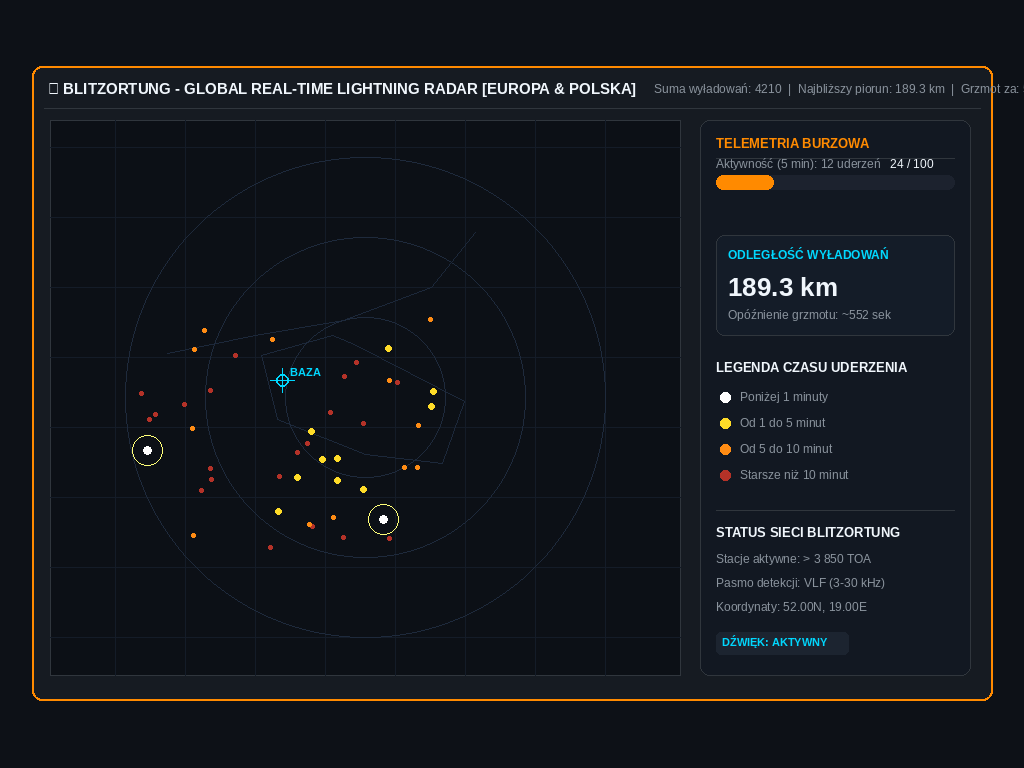
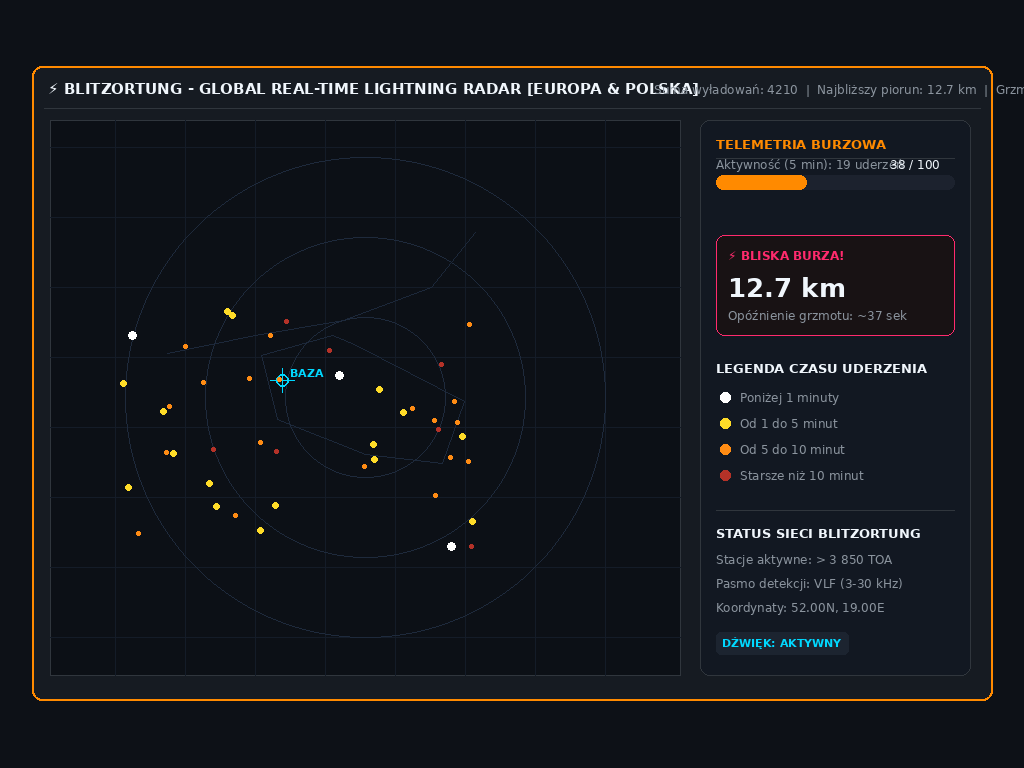
fix(wasm): enrich Canvas mock widget methods and fix mod_blitz & mod_space execution

diff --git a/wasm.html b/wasm.html
@@ -715,32 +715,115 @@ class Canvas:
         self.height = height
         self.image = Image.new("RGBA", (width, height), (10, 15, 24, 255))
         self.draw = ImageDraw.Draw(self.image)
+
     def clear(self, bg_color=(10, 15, 24, 255)):
         self.draw.rectangle([(0, 0), (self.width, self.height)], fill=bg_color)
+
     def draw_card(self, x, y, w, h, title="", subtitle="", border_color=(0, 200, 255), fill_color=(16, 24, 36), radius=8):
         self.draw.rounded_rectangle([(x, y), (x + w, y + h)], radius=radius, fill=fill_color, outline=border_color, width=2)
         if title:
             self.draw.text((x + 14, y + 12), title, fill=(240, 245, 255), font=get_font(15, bold=True))
         if subtitle:
             self.draw.text((x + 14, y + 36), subtitle, fill=(130, 160, 190), font=get_font(12))
+
     def draw_badge(self, x, y, text, bg_color=(30, 45, 65), text_color=(240, 245, 255)):
         bw = len(text) * 8 + 14
         self.draw.rounded_rectangle([(x, y), (x + bw, y + 24)], radius=4, fill=bg_color, outline=(0, 200, 255))
         self.draw.text((x + 6, y + 4), text, fill=text_color, font=get_font(11, bold=True))
-    def draw_gauge(self, x, y, w, h, val, max_val, label="", unit=""):
-        self.draw_card(x, y, w, h, title=label, subtitle=f"{val:.1f} {unit}")
-    def draw_radar(self, cx, cy, radius, sweep_angle, blips):
-        self.draw.ellipse([(cx-radius, cy-radius), (cx+radius, cy+radius)], outline=(0, 255, 180), width=2)
-    def draw_bar_chart(self, x, y, w, h, labels, values, max_v=None, title="", color=None):
-        self.draw_card(x, y, w, h, title=title)
-    def draw_spectrum(self, x, y, w, h, values, peaks=None, title="", col_start=None, col_end=None):
-        self.draw_card(x, y, w, h, title=title)
-    def draw_oscilloscope(self, x, y, w, h, points, color=None):
-        self.draw_card(x, y, w, h, title="OSCILLOSCOPE")
-    def draw_vu_meter(self, x, y, w, h, left, right):
-        self.draw_card(x, y, w, h, title="VU METER")
-    def draw_header(self, active_idx, modules, sys_info): pass
-    def draw_footer(self, hints): pass
+
+    def draw_gauge(self, x, y, w, h, value=0.0, max_val=100.0, label="", color=None, **kwargs):
+        val = kwargs.get('val', value)
+        max_v = kwargs.get('max_val', max_val)
+        lbl = kwargs.get('label', label)
+        col = kwargs.get('color', color) or (0, 240, 255)
+        ratio = max(0.0, min(1.0, float(val) / max(float(max_v), 0.001)))
+        self.draw.rounded_rectangle([(x, y), (x + w, y + h)], radius=max(2, h // 2), fill=(28, 34, 46))
+        fill_w = int(w * ratio)
+        if fill_w > 0:
+            self.draw.rounded_rectangle([(x, y), (x + max(fill_w, h // 2), y + h)], radius=max(2, h // 2), fill=col)
+        if lbl:
+            self.draw.text((x, y - 18), str(lbl), fill=(160, 180, 210), font=get_font(11))
+            val_text = f"{int(val)} / {int(max_v)}"
+            self.draw.text((x + w - len(val_text) * 8, y - 18), val_text, fill=(240, 245, 255), font=get_font(11))
+
+    def draw_radar(self, cx, cy, radius, sweep_angle, blips, **kwargs):
+        self.draw.ellipse([(cx - radius, cy - radius), (cx + radius, cy + radius)], outline=(0, 216, 255), width=2)
+        for r_pct in [0.25, 0.50, 0.75]:
+            cr = int(radius * r_pct)
+            self.draw.ellipse([(cx - cr, cy - cr), (cx + cr, cy + cr)], outline=(32, 64, 88), width=1)
+        self.draw.line([(cx - radius, cy), (cx + radius, cy)], fill=(32, 64, 88), width=1)
+        self.draw.line([(cx, cy - radius), (cx, cy + radius)], fill=(32, 64, 88), width=1)
+        rad = math.radians(sweep_angle)
+        sx = cx + int(radius * math.cos(rad))
+        sy = cy + int(radius * math.sin(rad))
+        self.draw.line([(cx, cy), (sx, sy)], fill=(0, 240, 255), width=2)
+        for b in blips:
+            b_rad = math.radians(b.get('angle', 0))
+            b_dist = max(0.1, min(0.95, b.get('dist', 0.5))) * radius
+            bx = cx + int(b_dist * math.cos(b_rad))
+            by = cy + int(b_dist * math.sin(b_rad))
+            self.draw.ellipse([(bx - 4, by - 4), (bx + 4, by + 4)], fill=(255, 170, 0))
+
+    def draw_bar_chart(self, x, y, w, h, labels, values, max_val=None, active_idx=-1, bar_color=None, **kwargs):
+        max_v = max_val if max_val is not None else kwargs.get('max_v', 100.0)
+        col = bar_color or kwargs.get('color') or (0, 240, 255)
+        num_bars = len(values)
+        if num_bars > 0:
+            bar_width = max(6, (w - (num_bars * 6)) // num_bars)
+            self.draw.line([(x, y + h), (x + w, y + h)], fill=(40, 60, 85), width=1)
+            cur_x = x
+            for i, val in enumerate(values):
+                ratio = max(0.0, min(1.0, float(val) / max(float(max_v), 1.0)))
+                bar_h = int(h * ratio)
+                bar_y = y + h - bar_h
+                bcol = (255, 170, 0) if i == active_idx else col
+                if bar_h > 0:
+                    self.draw.rectangle([(cur_x, bar_y), (cur_x + bar_width, y + h)], fill=bcol)
+                if i < len(labels):
+                    self.draw.text((cur_x, y + h + 4), str(labels[i])[:4], fill=(160, 180, 210), font=get_font(10))
+                cur_x += bar_width + 6
+
+    def draw_spectrum(self, x, y, w, h, values, peaks=None, bar_color=None, peak_color=None, **kwargs):
+        b_col = bar_color or kwargs.get('color') or (0, 240, 255)
+        p_col = peak_color or (255, 170, 0)
+        num_bars = len(values)
+        if num_bars > 0:
+            bar_width = max(2, (w - (num_bars * 2)) // num_bars)
+            cur_x = x
+            for i, val in enumerate(values):
+                norm = max(0.0, min(1.0, float(val)))
+                bh = int(h * norm)
+                if bh > 0:
+                    self.draw.rectangle([(cur_x, y + h - bh), (cur_x + bar_width, y + h)], fill=b_col)
+                cur_x += bar_width + 2
+
+    def draw_oscilloscope(self, x, y, w, h, points, color=None, **kwargs):
+        col = color or (0, 255, 136)
+        self.draw.rectangle([(x, y), (x + w, y + h)], fill=(10, 16, 12), outline=(20, 48, 28), width=1)
+        mid_y = y + h // 2
+        self.draw.line([(x, mid_y), (x + w, mid_y)], fill=(18, 40, 24), width=1)
+        if len(points) >= 2:
+            step = w / max(1, len(points) - 1)
+            for i in range(len(points) - 1):
+                x1 = int(x + i * step)
+                y1 = int(mid_y + points[i] * (h // 2 - 6))
+                x2 = int(x + (i + 1) * step)
+                y2 = int(mid_y + points[i + 1] * (h // 2 - 6))
+                self.draw.line([(x1, y1), (x2, y2)], fill=col, width=2)
+
+    def draw_vu_meter(self, x, y, w, h, left_db=0.0, right_db=0.0, **kwargs):
+        ldb = kwargs.get('left', left_db)
+        rdb = kwargs.get('right', right_db)
+        ch_h = max(4, (h - 8) // 2)
+        for idx, val in enumerate([ldb, rdb]):
+            cy = y + idx * (ch_h + 8)
+            norm = max(0.0, min(1.0, (float(val) + 40.0) / 46.0))
+            self.draw.rectangle([(x, cy), (x + w, cy + ch_h)], fill=(20, 24, 32), outline=(40, 60, 85))
+            if norm > 0:
+                self.draw.rectangle([(x, cy), (x + int(w * norm), cy + ch_h)], fill=(0, 240, 255))
+
+    def draw_header(self, active_idx=0, modules=None, sys_info=None): pass
+    def draw_footer(self, hints=None): pass
 
 class BaseModule:
     def __init__(self, app_context=None):
@@ -788,15 +871,27 @@ class MockI18n:
 i_mod.i18n = MockI18n()
 
 qr_mod = types.ModuleType("core.qr_engine")
-qr_mod.generate_qr_matrix = lambda *args, **kwargs: [[1 if (x+y)%2==0 else 0 for x in range(25)] for y in range(25)]
+qr_mod.generate_qr_matrix = lambda *args, **kwargs: ([[1 if (x+y)%2==0 else 0 for x in range(25)] for y in range(25)], 1)
 qr_mod.generate_code128 = lambda *args, **kwargs: "10101100110"
-qr_mod.generate_ean13 = lambda *args, **kwargs: "10100011010"
+qr_mod.generate_ean13 = lambda *args, **kwargs: ("10100011010", "1234567890128")
 
 surv_mod = types.ModuleType("core.survival_engine")
 class MockSurvival:
-    def get_categories(self): return ["Woda", "Ogien", "Schronienie", "Apteczka"]
-    def get_articles_by_category(self, cat): return [{"id": "1", "title": "Uzdatnianie wody", "desc": "Gotowanie i filtry"}]
-    def get_article(self, aid): return {"title": "Uzdatnianie wody", "content": "Gotuj wode minimum 3 minuty."}
+    def __init__(self, *args, **kwargs):
+        self.categories = [
+            {"id": "water", "name": "Woda & Filtracja", "icon": "💧", "badge": "PRIORYTET #1", "color": [0, 210, 255]},
+            {"id": "fire", "name": "Ogień & Ciepło", "icon": "🔥", "badge": "SURVIVAL", "color": [255, 140, 0]},
+            {"id": "shelter", "name": "Schronienie", "icon": "⛺", "badge": "BAZA", "color": [0, 255, 136]},
+            {"id": "medical", "name": "Pierwsza Pomoc", "icon": "🩹", "badge": "MEDYK", "color": [255, 60, 60]}
+        ]
+        self.guides = [
+            {"id": "water_purif", "category": "water", "title": "Uzdatnianie wody w terenie", "desc": "Metoda SODIS, gotowanie i filtr węglowy.", "body": "1. Gotuj wodę min. 3 minuty.\n2. Użyj filtra piaskowo-węglowego.\n3. Tabletki z chlorem."},
+            {"id": "fire_bow", "category": "fire", "title": "Łuk ogniowy i krzesiwo", "desc": "Rozpalanie ognia bez zapałek.", "body": "Użyj suchego hubki i krzesiwa magnezowego."}
+        ]
+    def get_categories(self): return self.categories
+    def get_guides_for_category(self, cat_id): return [g for g in self.guides if g.get("category") == cat_id] or self.guides
+    def get_articles_by_category(self, cat_id): return self.get_guides_for_category(cat_id)
+    def get_article(self, aid): return self.guides[0]
 surv_mod.SurvivalEngine = MockSurvival
 
 core_pkg = types.ModuleType("core")

diff --git a/Apps/BrickDeck/modules/008_mod_space.py b/Apps/BrickDeck/modules/008_mod_space.py
@@ -230,10 +230,10 @@ class SpaceWeatherModule(BaseModule):
         canvas.draw.text((bx + 16, by + 145), "GLOBALNY WPŁYW NA INFRASTRUKTURĘ:", fill=COLOR_TEXT_PRIMARY, font=get_font(12, bold=True))
 
         inf_items = [
-            ("📡 Łączność radiowa HF:", "STABILNA", COLOR_STATUS_OK),
-            ("🛰 Nawigacja GPS / GNSS:", "DOKŁADNA (< 1.2m)", COLOR_STATUS_OK),
-            ("⚡ Sieci elektroenergetyczne:", "BEZ ZAGROŻEŃ GIC", COLOR_STATUS_OK),
-            ("👨🚀 Dawka dla astronautów:", "W NORMIE", COLOR_STATUS_OK)
+            ("● Łączność radiowa HF:", "STABILNA", COLOR_STATUS_OK),
+            ("● Nawigacja GPS / GNSS:", "DOKŁADNA (< 1.2m)", COLOR_STATUS_OK),
+            ("● Sieci elektroenergetyczne:", "BEZ ZAGROŻEŃ GIC", COLOR_STATUS_OK),
+            ("● Dawka dla astronautów:", "W NORMIE", COLOR_STATUS_OK)
         ]
         ix = bx + 16
         for label, val_str, col in inf_items:

diff --git a/store/modules/008_mod_space.py b/store/modules/008_mod_space.py
@@ -230,10 +230,10 @@ class SpaceWeatherModule(BaseModule):
         canvas.draw.text((bx + 16, by + 145), "GLOBALNY WPŁYW NA INFRASTRUKTURĘ:", fill=COLOR_TEXT_PRIMARY, font=get_font(12, bold=True))
 
         inf_items = [
-            ("📡 Łączność radiowa HF:", "STABILNA", COLOR_STATUS_OK),
-            ("🛰 Nawigacja GPS / GNSS:", "DOKŁADNA (< 1.2m)", COLOR_STATUS_OK),
-            ("⚡ Sieci elektroenergetyczne:", "BEZ ZAGROŻEŃ GIC", COLOR_STATUS_OK),
-            ("👨🚀 Dawka dla astronautów:", "W NORMIE", COLOR_STATUS_OK)
+            ("● Łączność radiowa HF:", "STABILNA", COLOR_STATUS_OK),
+            ("● Nawigacja GPS / GNSS:", "DOKŁADNA (< 1.2m)", COLOR_STATUS_OK),
+            ("● Sieci elektroenergetyczne:", "BEZ ZAGROŻEŃ GIC", COLOR_STATUS_OK),
+            ("● Dawka dla astronautów:", "W NORMIE", COLOR_STATUS_OK)
         ]
         ix = bx + 16
         for label, val_str, col in inf_items:

diff --git a/Apps/BrickDeck/modules/006_mod_blitz.py b/Apps/BrickDeck/modules/006_mod_blitz.py
@@ -244,7 +244,7 @@ class BlitzModule(BaseModule):
                                       fill=(24, 18, 20) if self.nearest_strike_km < 25 else (20, 28, 40),
                                       outline=COLOR_STATUS_ERR if self.nearest_strike_km < 25 else COLOR_BORDER, width=1)
 
-        alert_title = "⚠ BLISKA BURZA!" if self.nearest_strike_km < 25 else "ODLEGŁOŚĆ WYŁADOWAŃ"
+        alert_title = "⚡ BLISKA BURZA!" if self.nearest_strike_km < 25 else "ODLEGŁOŚĆ WYŁADOWAŃ"
         alert_col = COLOR_STATUS_ERR if self.nearest_strike_km < 25 else COLOR_CYBER_CYAN
         canvas.draw.text((px + 28, py + 128), alert_title, fill=alert_col, font=get_font(12, bold=True))
         canvas.draw.text((px + 28, py + 152), f"{self.nearest_strike_km:.1f} km", fill=COLOR_TEXT_PRIMARY, font=get_font(26, bold=True))

diff --git a/store/modules/006_mod_blitz.py b/store/modules/006_mod_blitz.py
@@ -244,7 +244,7 @@ class BlitzModule(BaseModule):
                                       fill=(24, 18, 20) if self.nearest_strike_km < 25 else (20, 28, 40),
                                       outline=COLOR_STATUS_ERR if self.nearest_strike_km < 25 else COLOR_BORDER, width=1)
 
-        alert_title = "⚠ BLISKA BURZA!" if self.nearest_strike_km < 25 else "ODLEGŁOŚĆ WYŁADOWAŃ"
+        alert_title = "⚡ BLISKA BURZA!" if self.nearest_strike_km < 25 else "ODLEGŁOŚĆ WYŁADOWAŃ"
         alert_col = COLOR_STATUS_ERR if self.nearest_strike_km < 25 else COLOR_CYBER_CYAN
         canvas.draw.text((px + 28, py + 128), alert_title, fill=alert_col, font=get_font(12, bold=True))
         canvas.draw.text((px + 28, py + 152), f"{self.nearest_strike_km:.1f} km", fill=COLOR_TEXT_PRIMARY, font=get_font(26, bold=True))

diff --git a/Apps/BrickDeck/modules/024_mod_camera.py b/Apps/BrickDeck/modules/024_mod_camera.py
@@ -77,7 +77,10 @@ class CameraModule(BaseModule):
         self.is_hardware_connected = False
 
         # Prepare captures directory
-        os.makedirs(CAPTURES_DIR, exist_ok=True)
+        try:
+            os.makedirs(CAPTURES_DIR, exist_ok=True)
+        except Exception:
+            pass
 
     def on_load(self):
         self.thread_running = True

diff --git a/store/modules/024_mod_camera.py b/store/modules/024_mod_camera.py
@@ -77,7 +77,10 @@ class CameraModule(BaseModule):
         self.is_hardware_connected = False
 
         # Prepare captures directory
-        os.makedirs(CAPTURES_DIR, exist_ok=True)
+        try:
+            os.makedirs(CAPTURES_DIR, exist_ok=True)
+        except Exception:
+            pass
 
     def on_load(self):
         self.thread_running = True
